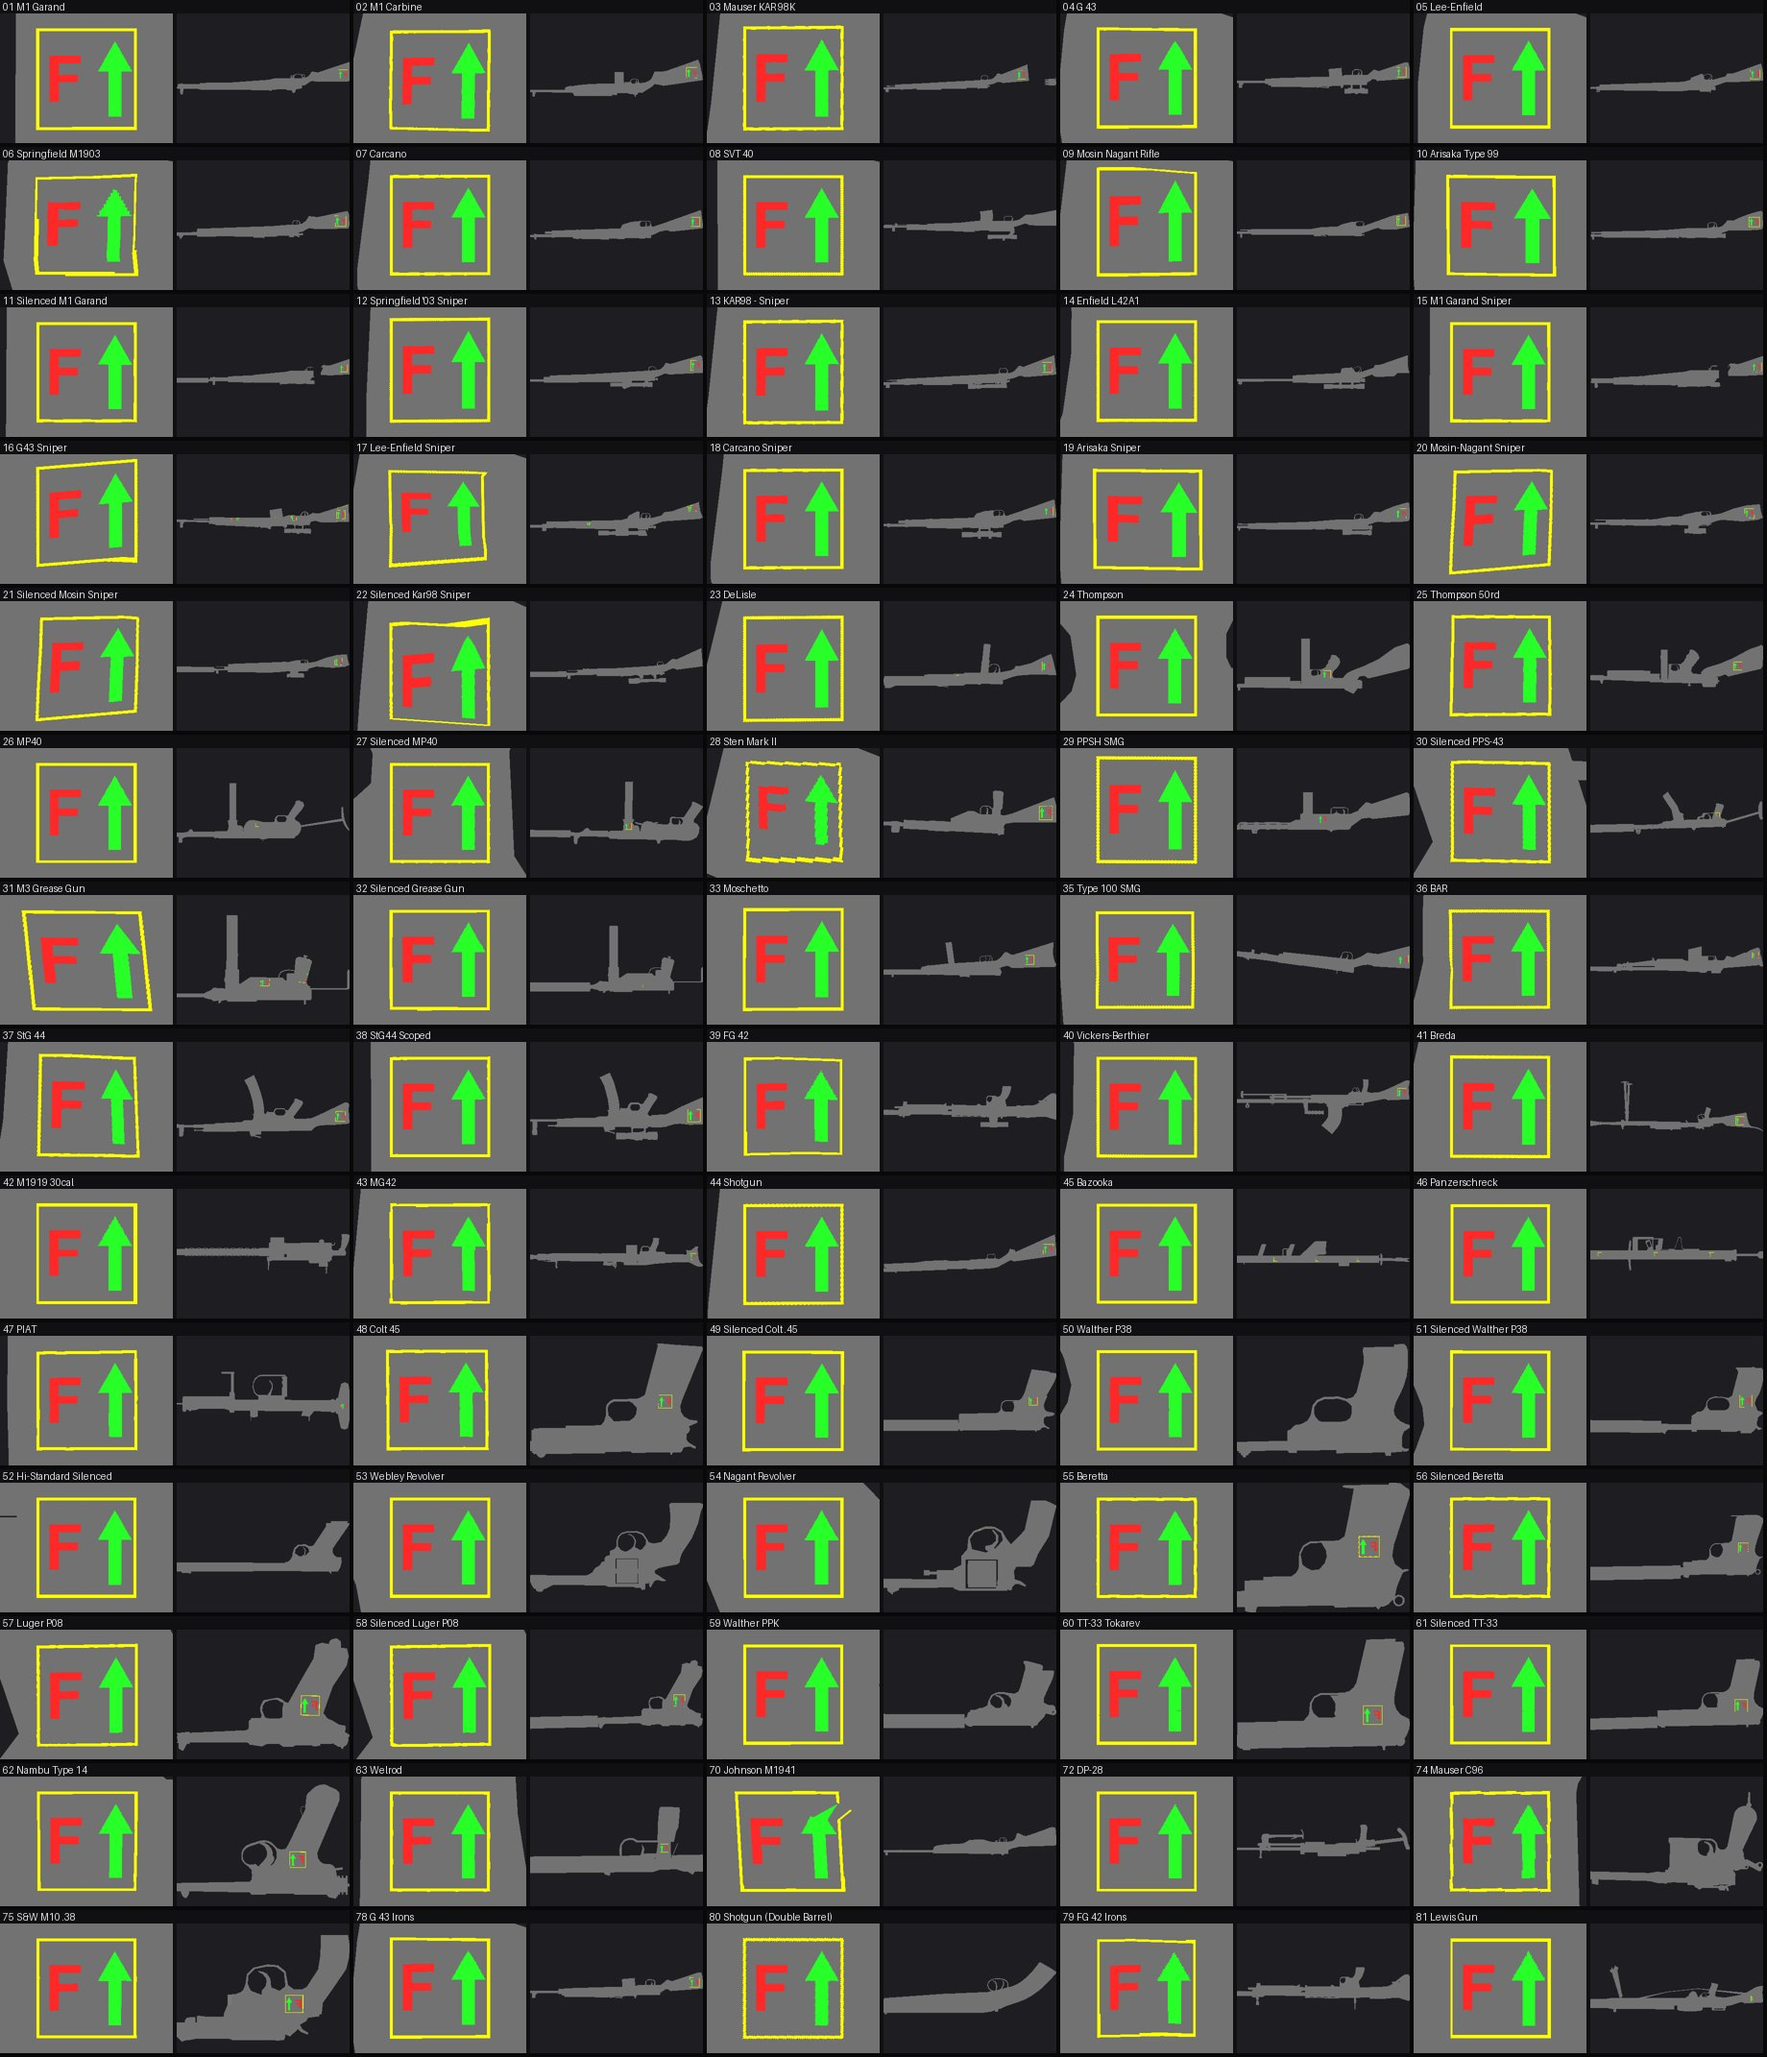
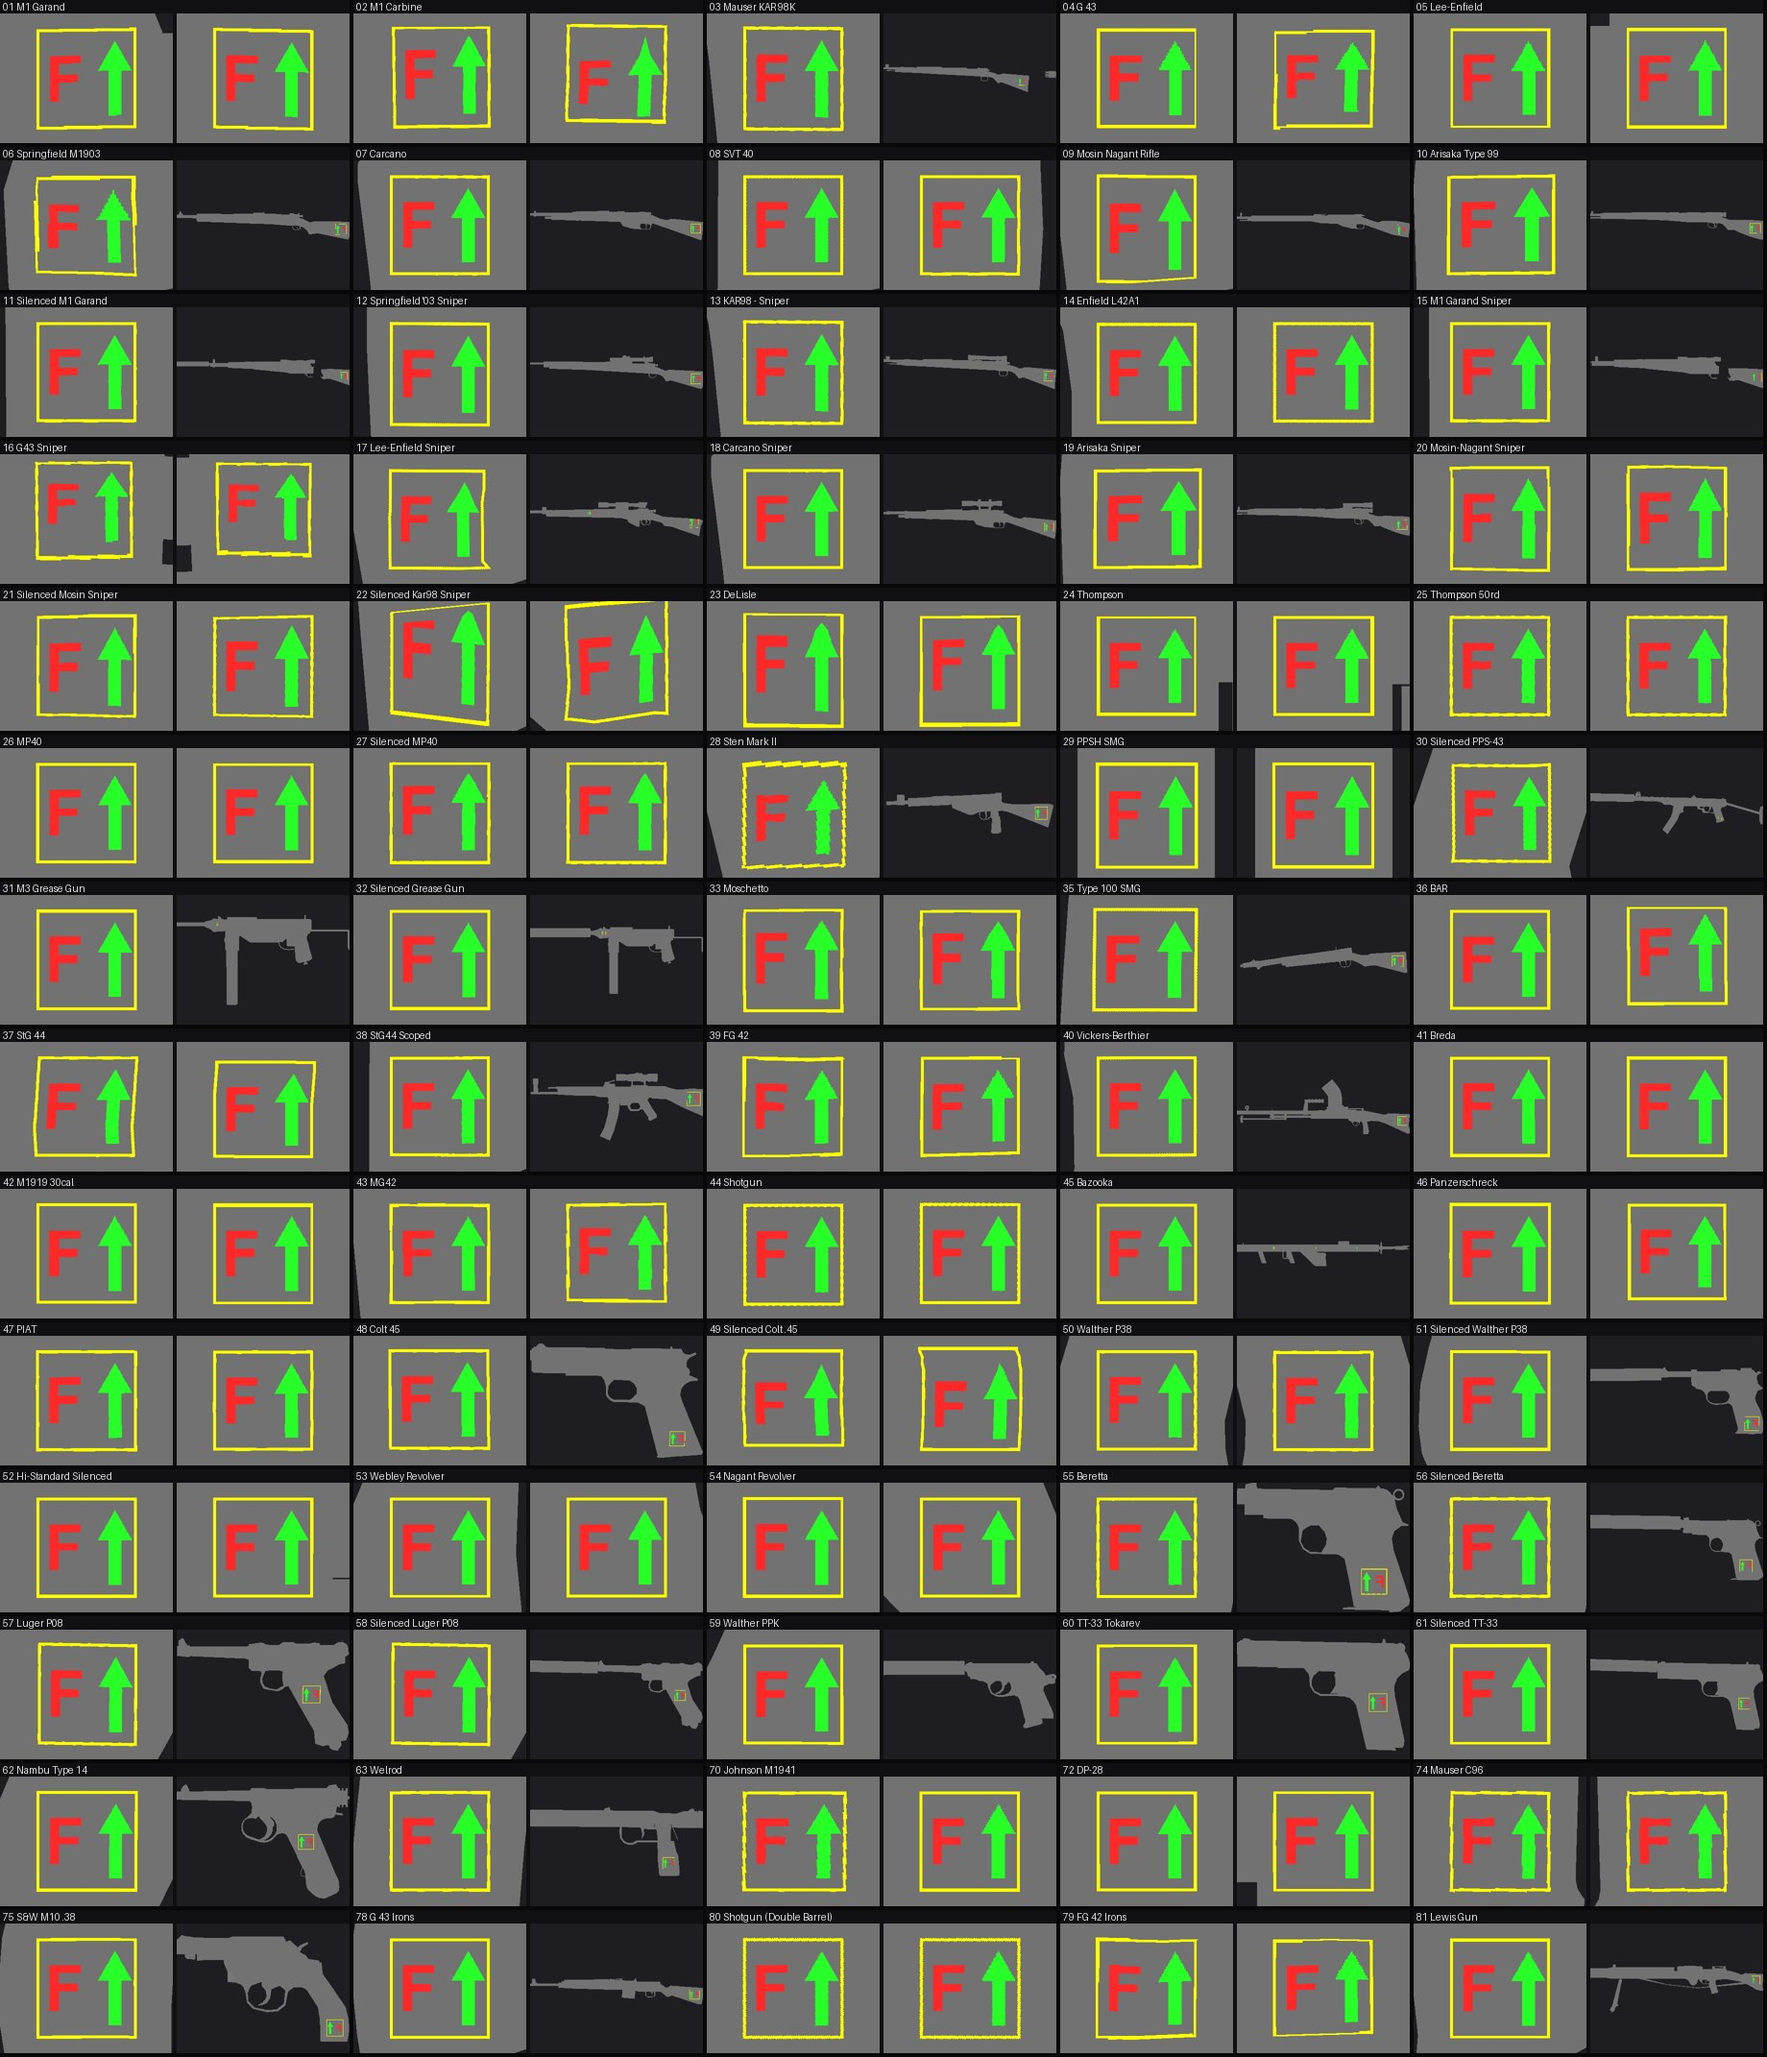
finishes2: sheet 2 re-shot the right way up (true frame), decal close-ups, gate rerun (70/70 Armory-side decals upright, 36 first-person-side decals on own texels), in-game look test (DXT5 test paks on the private client): MP40 airborne + Kar98k splitter hip shots

diff --git a/docs/proposals/finishes2_2026-11-09/tools/fs2_ingame.py b/docs/proposals/finishes2_2026-11-09/tools/fs2_ingame.py
@@ -52,7 +52,7 @@ def bake(fin, tag=None):
     os.makedirs(OUT, exist_ok=True)
     out.convert('RGB').resize((out.width // 4, out.height // 4)).save(os.path.join(OUT, 'fs2_%s_preview.jpg' % tag), quality=85)
     buf = io.BytesIO()
-    out.save(buf, format='DDS')                              # uncompressed RGBA, the name the shader already maps
+    out.save(buf, format='DDS', pixel_format='DXT5')         # DXT5: the renderer's DDS loader rejects Pillow's BGRA uncompressed layout
     pak = os.path.join(OUT, 'fs2_%s.pk3' % tag)
     with zipfile.ZipFile(pak, 'w', zipfile.ZIP_DEFLATED) as z:
         z.writestr(path, buf.getvalue())
@@ -69,6 +69,8 @@ def run(fin):
     try:
         s = W.Script()
         s.cmd("echo ^~^~^ FS boot", int(os.environ.get("WV_BOOT", "85000")))
+        s.cmd("+attack", 300)                # past the mission briefing ("press fire to join the battle"), as run_ab does
+        s.cmd("-attack", 7000)
         s.cmd("exec ui/loadout/w%s_s1.cfg" % GID, 6000)
         s.cmd('use "%s"' % GUN, 3000)
         s.cmd("screenshotJPEG fs_00_hip", 600)
